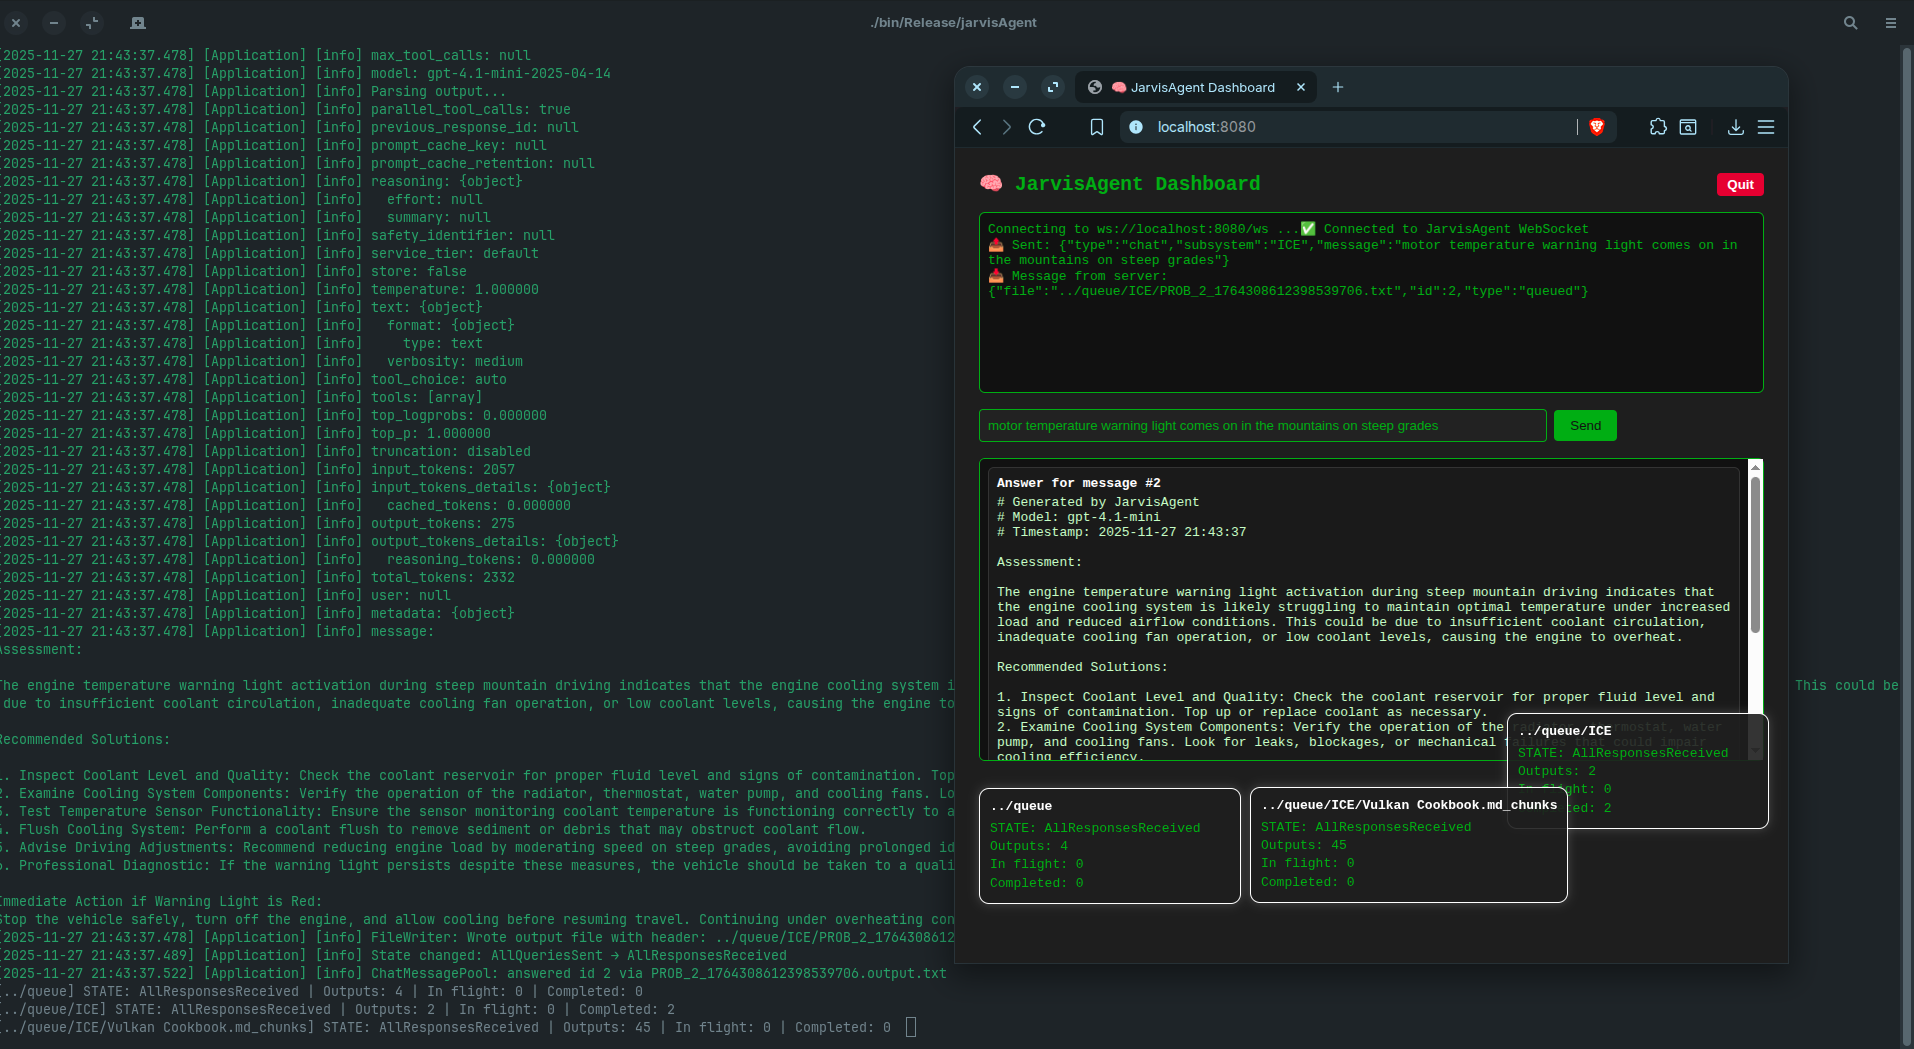
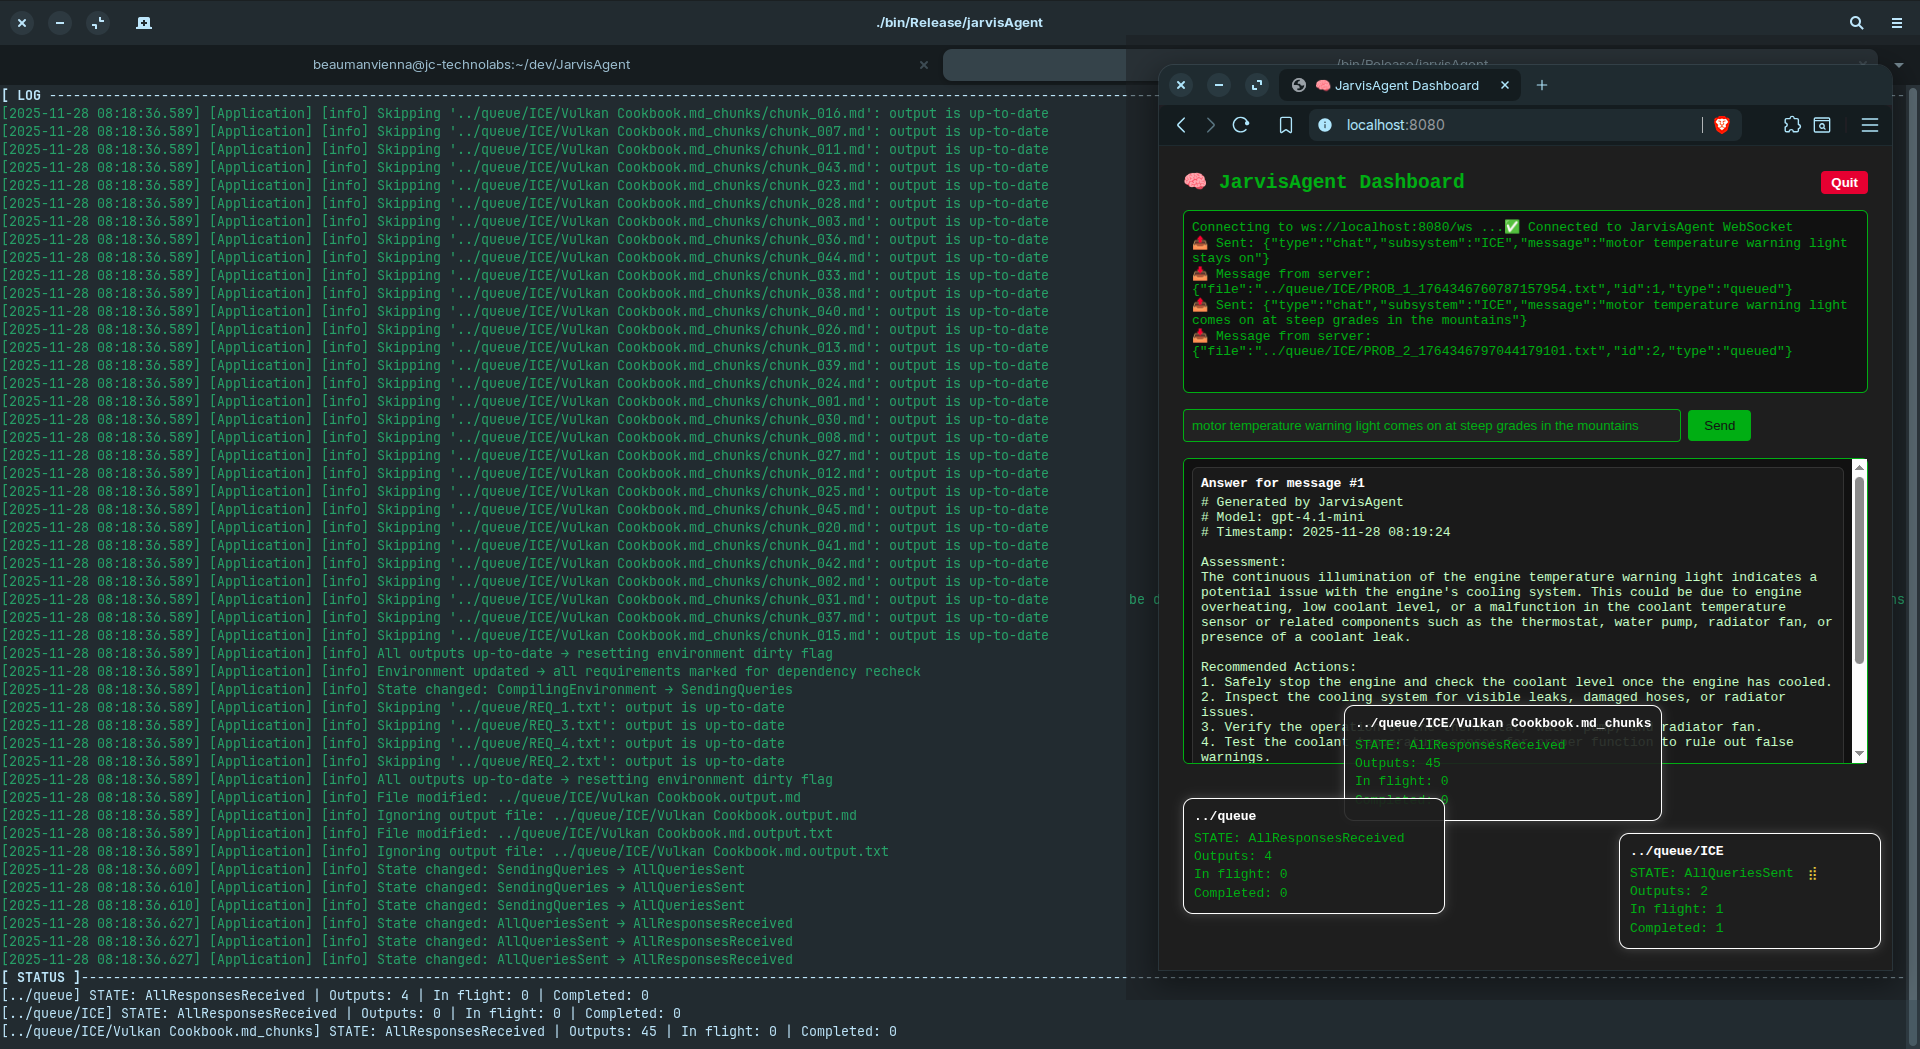
[LOG] and [STATUS] title added to terminal UI

diff --git a/engine/log/terminalManager.cpp b/engine/log/terminalManager.cpp
@@ -33,6 +33,8 @@ namespace AIAssistant
     {
         WINDOW* m_LogWindow{nullptr};
         WINDOW* m_StatusWindow{nullptr};
+        WINDOW* m_LogHeaderWindow{nullptr};
+        WINDOW* m_StatusHeaderWindow{nullptr};
 
         int m_LastRows{0};
         int m_LastCols{0};
@@ -69,34 +71,48 @@ namespace AIAssistant
                 return;
             }
 
-            int statusHeight = 1;
+            // We have:
+            //   - 1 row for LOG header
+            //   - logContentHeight rows for log content
+            //   - 1 row for STATUS header
+            //   - statusContentHeight rows for status content
+            //
+            // rows = 1 + logContentHeight + 1 + statusContentHeight
+
+            int statusContentHeight = 1;
 
             if (m_StatusHeightCallback)
             {
-                statusHeight = m_StatusHeightCallback(rows);
-                if (statusHeight < 1)
+                statusContentHeight = m_StatusHeightCallback(rows);
+                if (statusContentHeight < 1)
                 {
-                    statusHeight = 1;
+                    statusContentHeight = 1;
                 }
-                if (statusHeight >= rows)
+
+                // Leave at least 1 row for log content and 2 rows for headers
+                int maxStatusContentHeight = std::max(1, rows - 3);
+                if (statusContentHeight > maxStatusContentHeight)
                 {
-                    statusHeight = std::max(1, rows - 1);
+                    statusContentHeight = maxStatusContentHeight;
                 }
-            }
-            else
-            {
-                statusHeight = 1;
             }
 
-            int logHeight = rows - statusHeight;
-            if (logHeight < 1)
+            int logContentHeight = rows - statusContentHeight - 2;
+            if (logContentHeight < 1)
             {
-                logHeight = 1;
+                logContentHeight = 1;
             }
+
+            int logHeaderY = 0;
+            int logContentY = logHeaderY + 1;
+
+            int statusHeaderY = logContentY + logContentHeight;
+            int statusContentY = statusHeaderY + 1;
 
             bool recreate = false;
 
-            if (m_LogWindow == nullptr || m_StatusWindow == nullptr)
+            if (m_LogWindow == nullptr || m_StatusWindow == nullptr || m_LogHeaderWindow == nullptr ||
+                m_StatusHeaderWindow == nullptr)
             {
                 recreate = true;
             }
@@ -110,8 +126,8 @@ namespace AIAssistant
                 int currentStatusCols = 0;
                 getmaxyx(m_StatusWindow, currentStatusRows, currentStatusCols);
 
-                if (currentLogRows != logHeight || currentLogCols != cols || currentStatusRows != statusHeight ||
-                    currentStatusCols != cols)
+                if (currentLogRows != logContentHeight || currentLogCols != cols ||
+                    currentStatusRows != statusContentHeight || currentStatusCols != cols)
                 {
                     recreate = true;
                 }
@@ -127,23 +143,57 @@ namespace AIAssistant
                 delwin(m_LogWindow);
                 m_LogWindow = nullptr;
             }
-
             if (m_StatusWindow != nullptr)
             {
                 delwin(m_StatusWindow);
                 m_StatusWindow = nullptr;
             }
+            if (m_LogHeaderWindow != nullptr)
+            {
+                delwin(m_LogHeaderWindow);
+                m_LogHeaderWindow = nullptr;
+            }
+            if (m_StatusHeaderWindow != nullptr)
+            {
+                delwin(m_StatusHeaderWindow);
+                m_StatusHeaderWindow = nullptr;
+            }
 
-            m_LogWindow = newwin(logHeight, cols, 0, 0);
-            m_StatusWindow = newwin(statusHeight, cols, logHeight, 0);
+            m_LogHeaderWindow = newwin(1, cols, logHeaderY, 0);
+            m_LogWindow = newwin(logContentHeight, cols, logContentY, 0);
+
+            m_StatusHeaderWindow = newwin(1, cols, statusHeaderY, 0);
+            m_StatusWindow = newwin(statusContentHeight, cols, statusContentY, 0);
 
             scrollok(m_LogWindow, TRUE);
             idlok(m_LogWindow, TRUE);
 
+            werase(m_LogHeaderWindow);
             werase(m_LogWindow);
+            werase(m_StatusHeaderWindow);
             werase(m_StatusWindow);
 
+            wattron(m_LogHeaderWindow, A_BOLD);
+            mvwprintw(m_LogHeaderWindow, 0, 0, "[ LOG ]");
+            wattroff(m_LogHeaderWindow, A_BOLD);
+
+            for (int i = 6; i < getmaxx(m_LogHeaderWindow); ++i) // 6 = strlen("[ LOG ]")
+            {
+                mvwaddch(m_LogHeaderWindow, 0, i, '-');
+            }
+
+            wattron(m_StatusHeaderWindow, A_BOLD);
+            mvwprintw(m_StatusHeaderWindow, 0, 0, "[ STATUS ]");
+            wattroff(m_StatusHeaderWindow, A_BOLD);
+
+            for (int i = 10; i < getmaxx(m_StatusHeaderWindow); ++i) // 10 = strlen("[ STATUS ]")
+            {
+                mvwaddch(m_StatusHeaderWindow, 0, i, '-');
+            }
+
+            wrefresh(m_LogHeaderWindow);
             wrefresh(m_LogWindow);
+            wrefresh(m_StatusHeaderWindow);
             wrefresh(m_StatusWindow);
 
             m_LogPrintLine = 0;
@@ -228,6 +278,14 @@ namespace AIAssistant
             if (!m_StatusLinesCallback)
             {
                 wrefresh(m_StatusWindow);
+                if (m_LogHeaderWindow)
+                {
+                    wrefresh(m_LogHeaderWindow);
+                }
+                if (m_StatusHeaderWindow)
+                {
+                    wrefresh(m_StatusHeaderWindow);
+                }
                 return;
             }
 
@@ -257,6 +315,15 @@ namespace AIAssistant
             }
 
             wrefresh(m_StatusWindow);
+
+            if (m_LogHeaderWindow)
+            {
+                wrefresh(m_LogHeaderWindow);
+            }
+            if (m_StatusHeaderWindow)
+            {
+                wrefresh(m_StatusHeaderWindow);
+            }
         }
     };
 
@@ -274,6 +341,7 @@ namespace AIAssistant
         std::setlocale(LC_ALL, "");
 
         initscr();
+        curs_set(0); // disable cursor
         cbreak();
         noecho();
         keypad(stdscr, TRUE);
@@ -304,11 +372,20 @@ namespace AIAssistant
             delwin(m_Impl->m_LogWindow);
             m_Impl->m_LogWindow = nullptr;
         }
-
         if (m_Impl->m_StatusWindow != nullptr)
         {
             delwin(m_Impl->m_StatusWindow);
             m_Impl->m_StatusWindow = nullptr;
+        }
+        if (m_Impl->m_LogHeaderWindow != nullptr)
+        {
+            delwin(m_Impl->m_LogHeaderWindow);
+            m_Impl->m_LogHeaderWindow = nullptr;
+        }
+        if (m_Impl->m_StatusHeaderWindow != nullptr)
+        {
+            delwin(m_Impl->m_StatusHeaderWindow);
+            m_Impl->m_StatusHeaderWindow = nullptr;
         }
 
         endwin();
